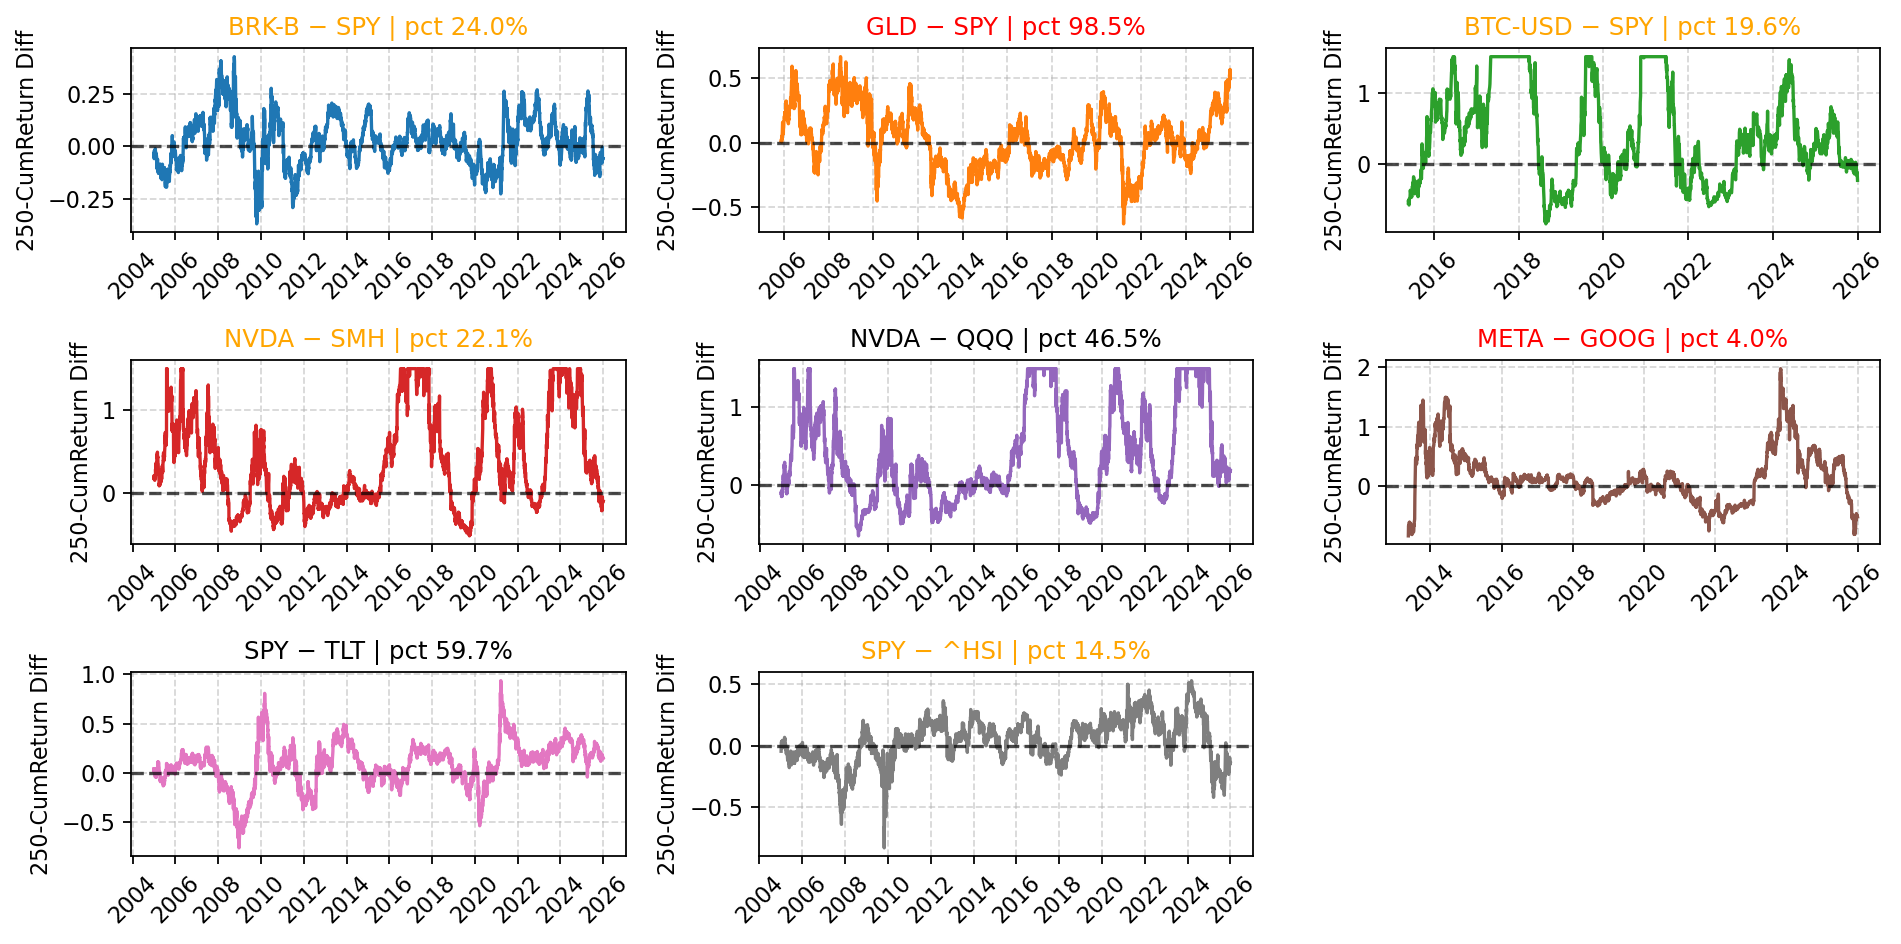
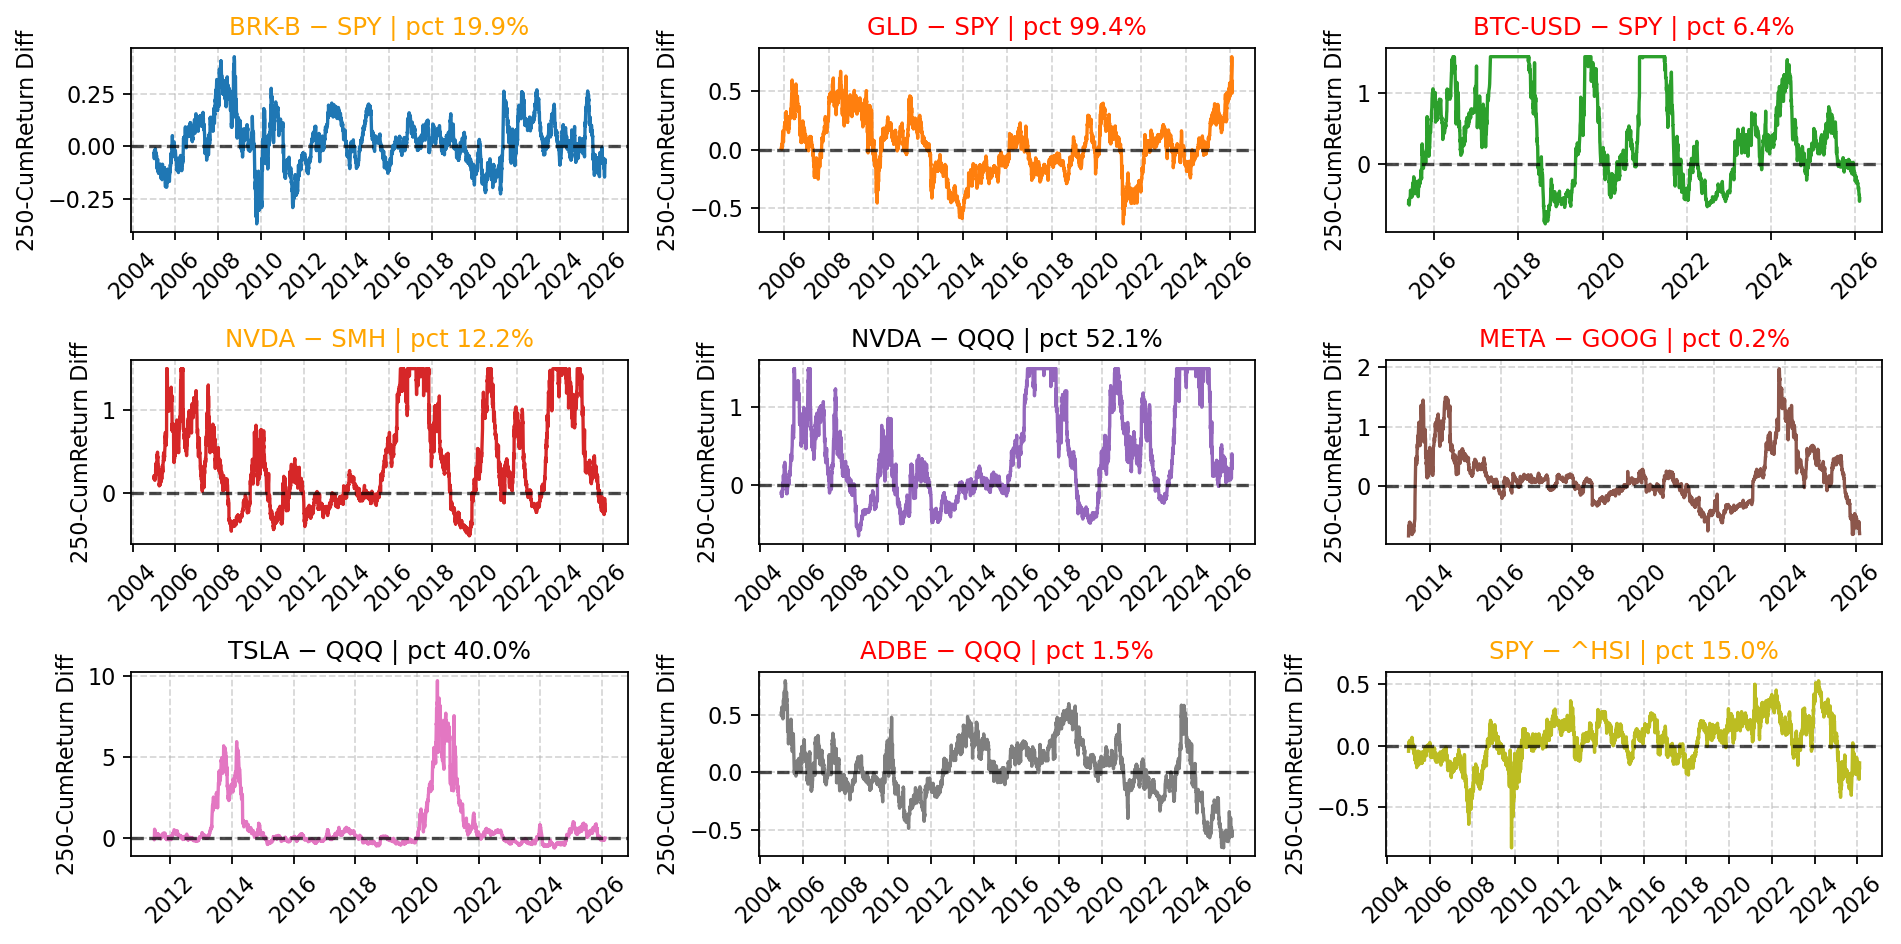
.

diff --git a/docs/index.html b/docs/index.html
@@ -12,7 +12,7 @@
 </head>
 <body>
   <h1>Rolling Pair Diffs (250-day)</h1>
-  <div class="meta">Last updated: 2025-12-29 20:30 UTC</div>
+  <div class="meta">Last updated: 2026-02-08 15:19 UTC</div>
   <p><img src="rolling_pairs.png" alt="rolling pairs figure"></p>
   <div class="note">
     Data via <code>yfinance</code>. Figure regenerates daily via GitHub Actions.

diff --git a/auto_macro_pair_monitor.py b/auto_macro_pair_monitor.py
@@ -23,11 +23,11 @@ PAIRS = [
     ('BRK-B', 'SPY'),     # growth vs quality value
     ('GLD', 'SPY'),       # growth vs value
     ('BTC-USD', 'SPY'),   # digital liquidity vs traditional growth
-    # ('TQQQ', 'SPY'),      # risk-on vs safe-haven (leveraged growth sentiment)
     ('NVDA', 'SMH'),       # nvidia v.s. semiconductors
     ('NVDA', 'QQQ'),      # AI & innovation v.s. broad market
     ('META', 'GOOG'),
-    ('SPY', 'TLT'),   # risk-on vs duration (flight-to-quality)
+    ('TSLA', 'QQQ'),
+    ('ADBE', 'QQQ'),
     ('SPY', '^HSI')   # dollar vs gold (global risk flow)
 ]
 
